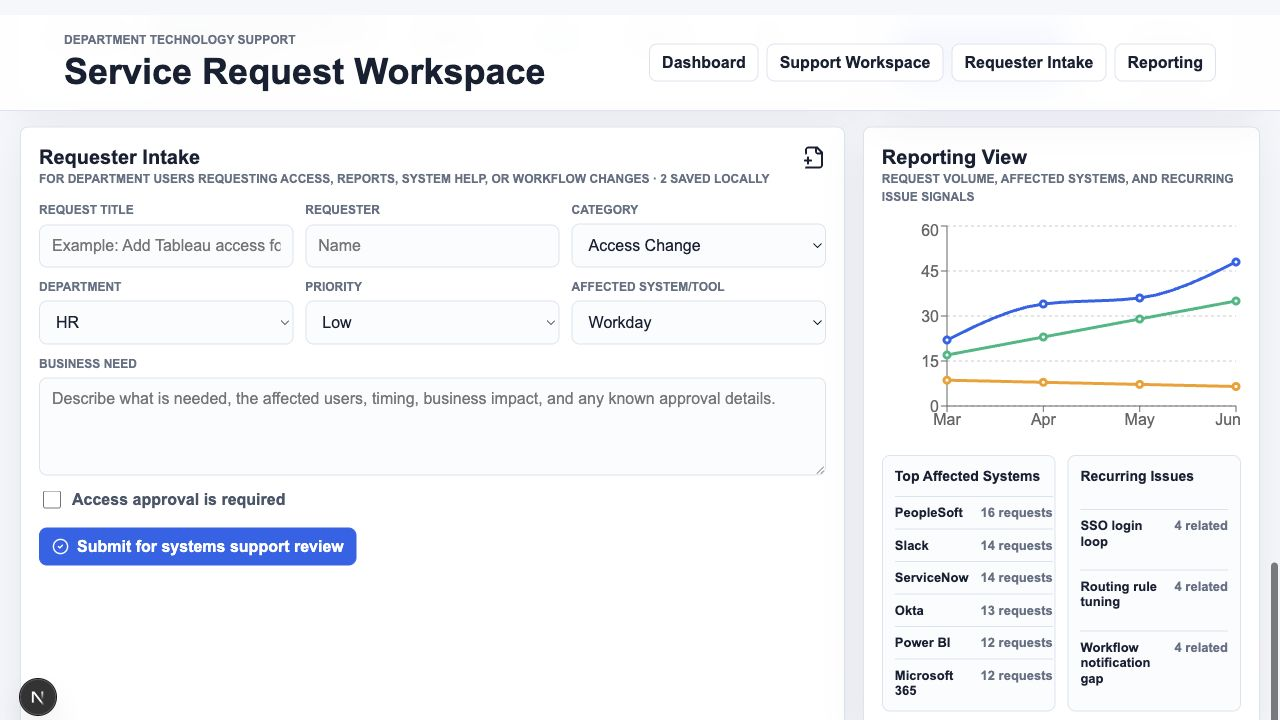
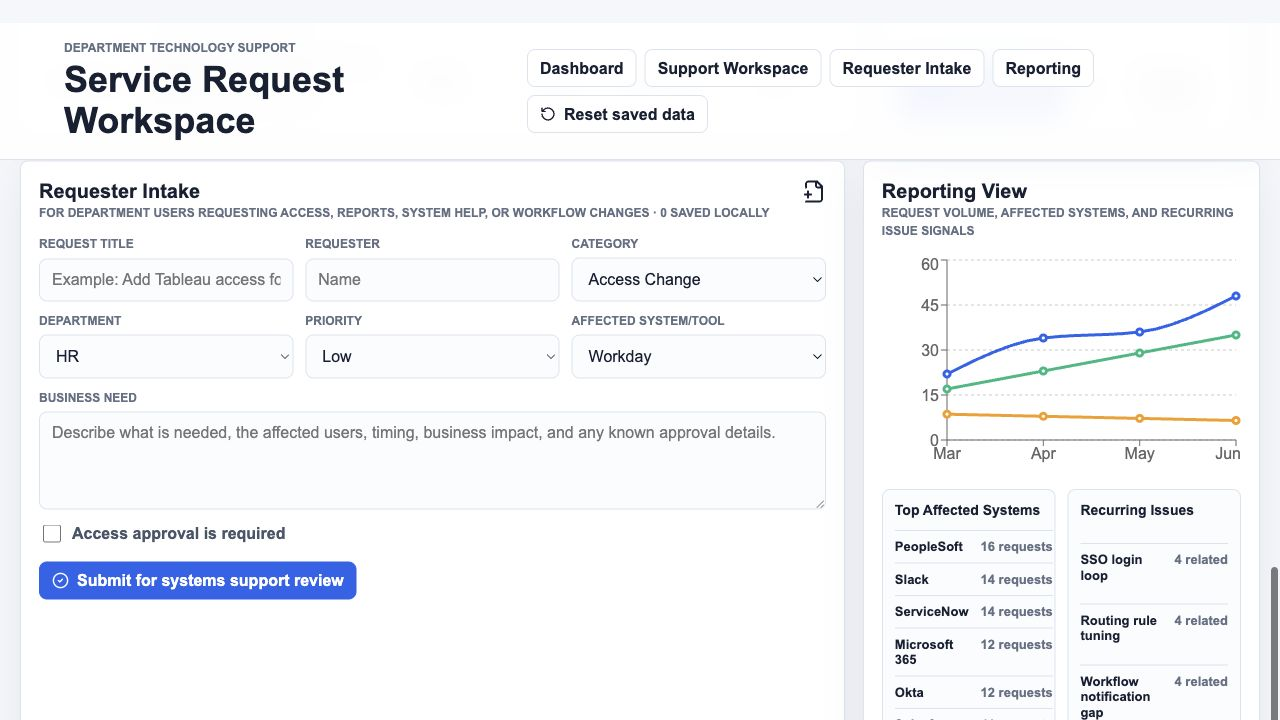
Add reset for saved demo data

diff --git a/app/page.tsx b/app/page.tsx
@@ -10,6 +10,7 @@ import {
   Filter,
   KeyRound,
   LineChart,
+  RotateCcw,
   Search,
   ShieldCheck,
   SlidersHorizontal,
@@ -361,6 +362,15 @@ export default function Home() {
     }));
   }
 
+  function handleResetSavedData() {
+    window.localStorage.removeItem(createdRequestsStorageKey);
+    window.localStorage.removeItem(requestEditsStorageKey);
+    setCreatedRequests([]);
+    setRequestEdits({});
+    setFilters(initialFilters);
+    setActiveId("");
+  }
+
   function handleSubmit(event: FormEvent<HTMLFormElement>) {
     event.preventDefault();
     const form = new FormData(event.currentTarget);
@@ -402,6 +412,7 @@ export default function Home() {
           <a href="#queue">Support Workspace</a>
           <a href="#intake">Requester Intake</a>
           <a href="#reporting">Reporting</a>
+          <button className="ghost-button" type="button" onClick={handleResetSavedData}><RotateCcw size={16} /> Reset saved data</button>
         </nav>
       </header>
 